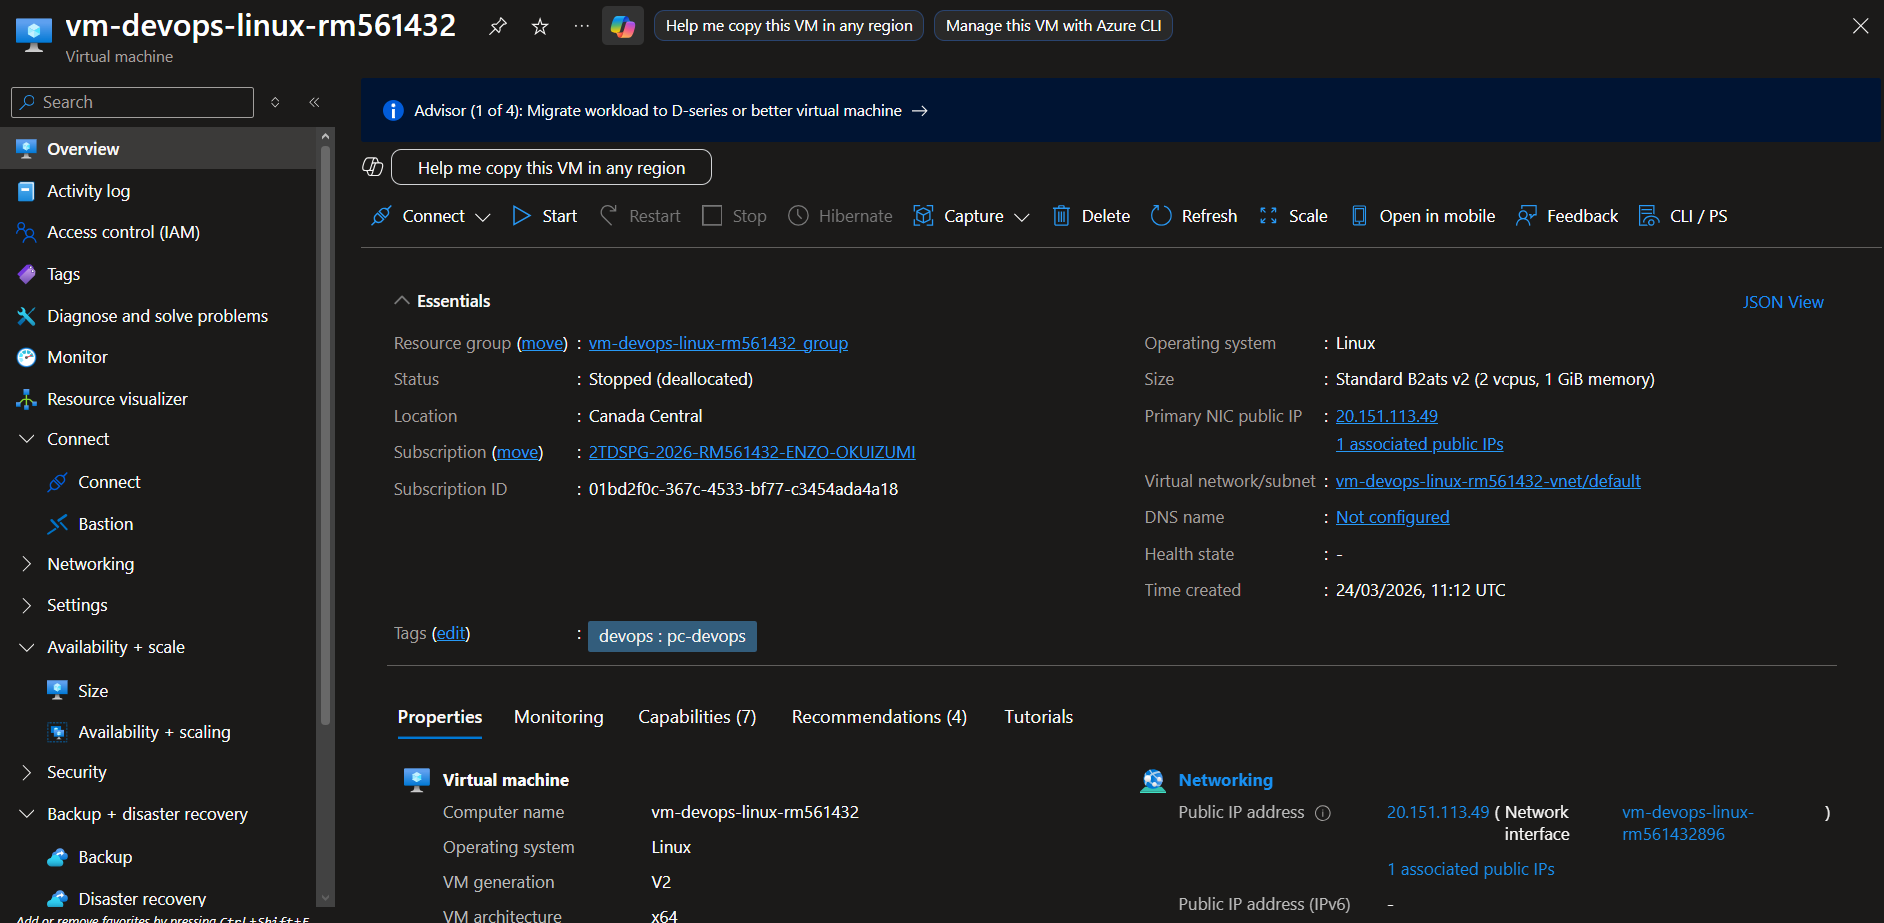
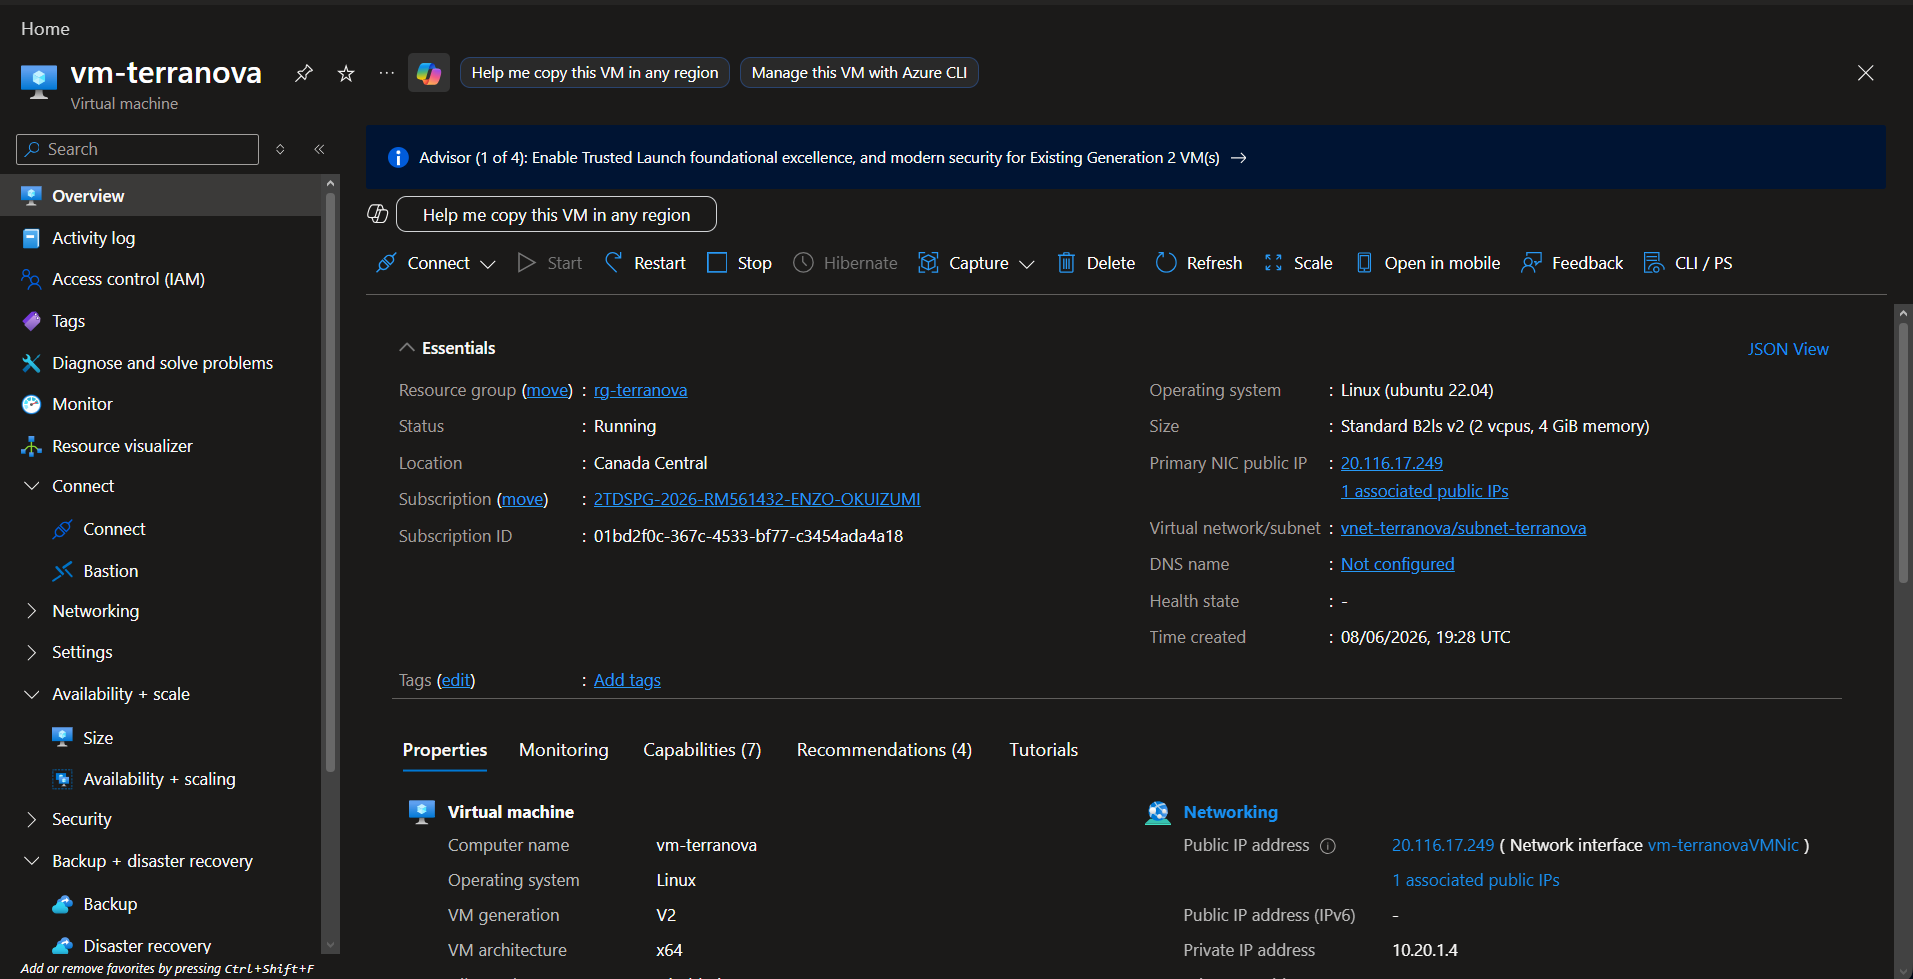
feat: Ajuste no readme

diff --git a/README.md b/README.md
@@ -75,9 +75,9 @@
 
 </table>
 
-## 📂 Repositório GitHub
+## 📂 Repositório GitHub e Links Importantes
 
-[Repositório GitHub](https://github.com/Global-Solution-Space/DevOps-Tools-Cloud-Computing) | [Vídeo Demonstrativo]() 
+[Repositório GitHub](https://github.com/Global-Solution-Space/DevOps-Tools-Cloud-Computing) | [Vídeo Demonstrativo]() | [Documentação PDF]()
 
 ## 🚀 Descrição da Solução Proposta
 
@@ -282,11 +282,9 @@ Abaixo estão os comandos `curl` para exercitar a API após o `docker compose up
 
 ## Prova Banco de Dados
 
-![Imagem 04](docs/delete%20dados%20e%20banco.png)
-> Obs: Os dados que estão no banco é por conta que eu já tinha criado dados antes, mas os dados que criei recentemente foram removidos!! No caso era para ter 2 de cada e como removemos, agora só tem 1!
+![Imagem 04](docs/banco%20de%20dados%20VM.png)
 
-![Imagem 05](docs/banco%20de%20dados%20VM.png)
-> Obs: aqui a prova!! Quando estava testando antes (usuário no caso!)
+![Imagem 05](docs/delete%20dados%20e%20banco.png)
 
 ## Link com IP da VM Azure
 
@@ -727,7 +725,6 @@ curl -fsS -X DELETE "$API_URL/api/tipoplantacao/$TIPO_PLANTACAO_ID"
 | `GET`     | `/api/dadotemporal/talhao/{talhaoId}`             | Lista dados temporais por talhão       |
 | `GET`     | `/api/dadotemporal/req-api/{reqApiId}`            | Lista dados temporais por requisição   |
 
-> 💡 **Dica**: você também pode usar a interface gráfica do Swagger em `http://localhost:8080` para testar todas as rotas com formulários automáticos.
 
 ---
 
